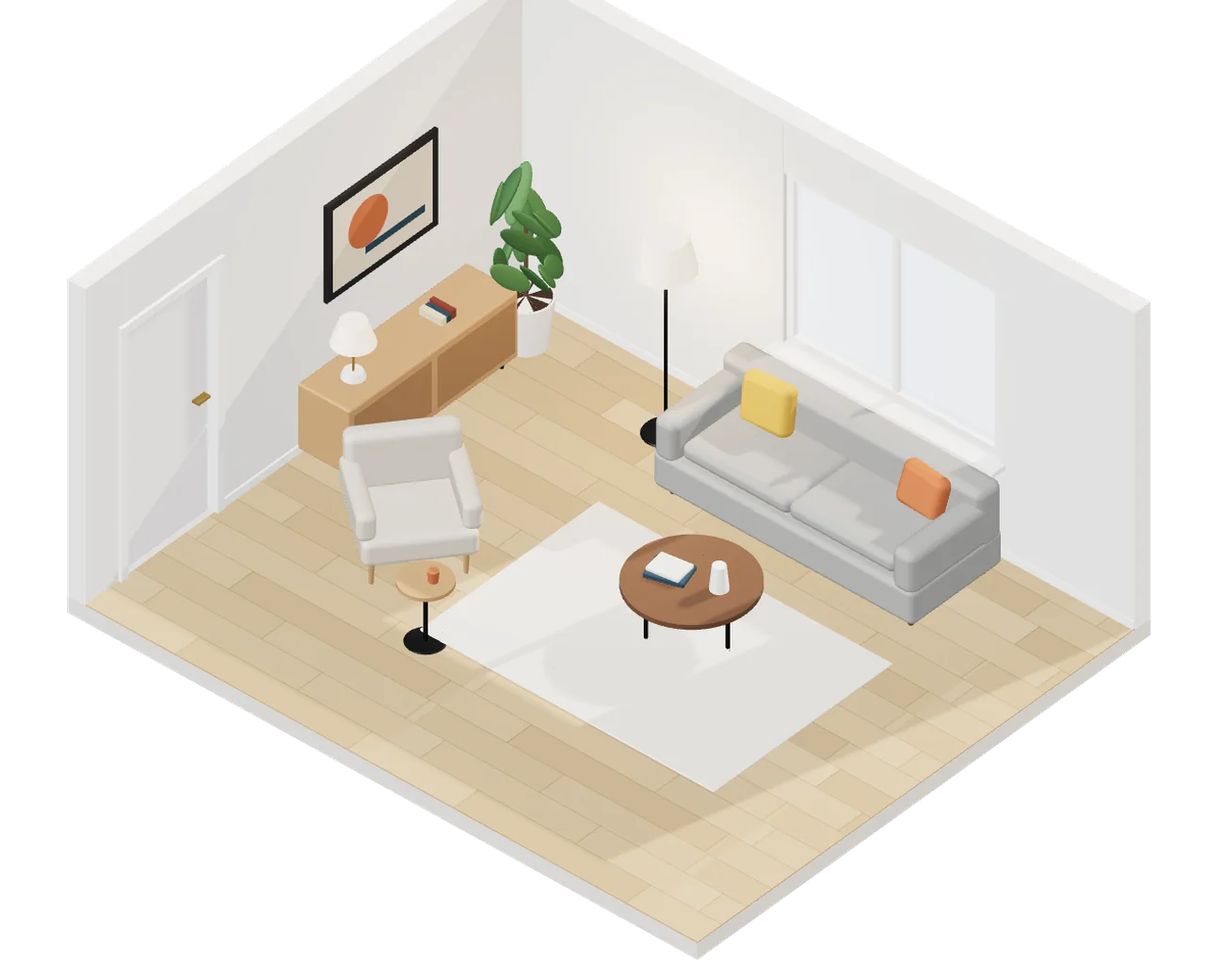
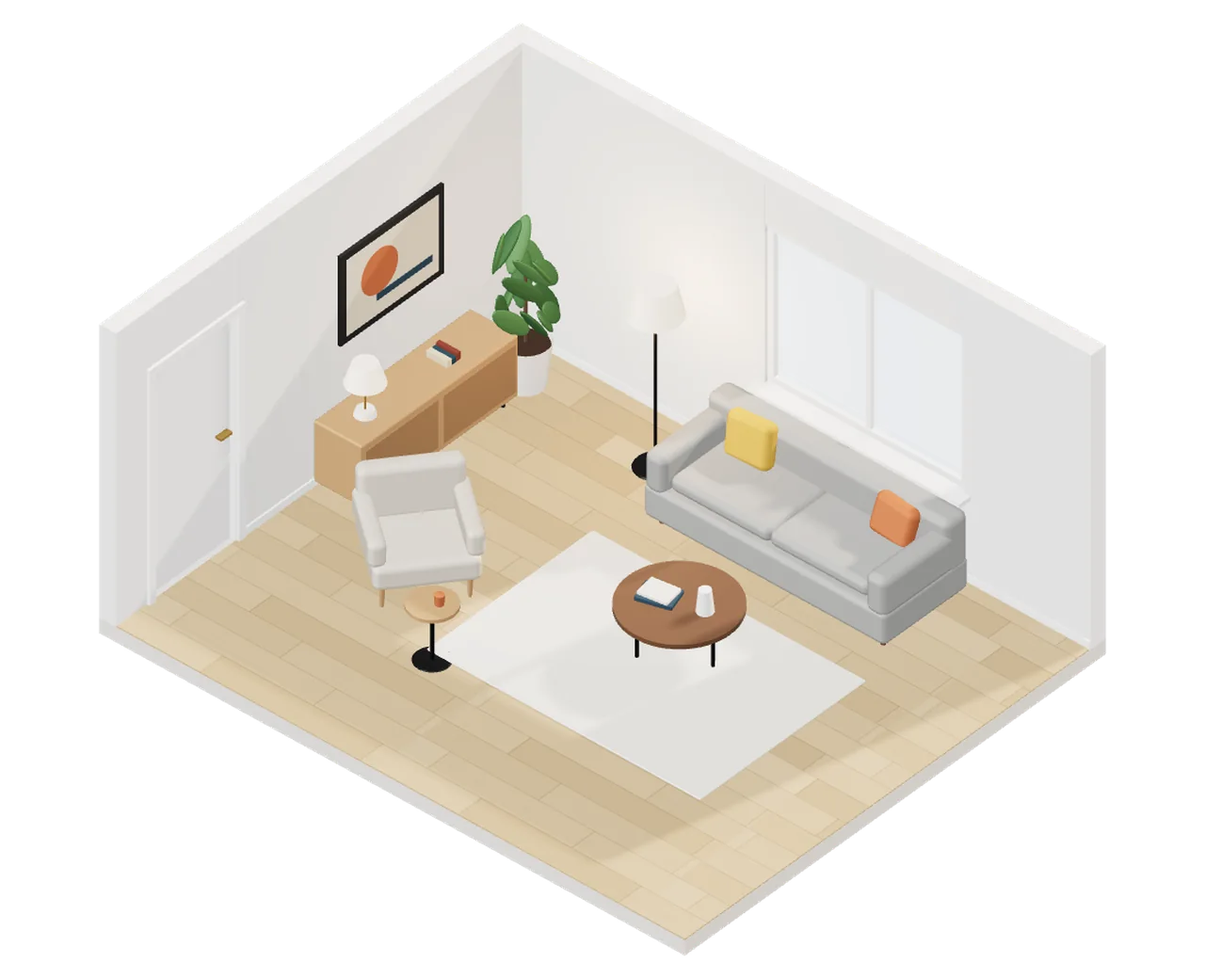
Landing room: fit the frame, no idle loop, no flicker
- The orthographic frame now fits the room's real bounds, checked across
  the whole turning range, so the top is never cut at any size or angle
- No animation at rest: the scene renders only while the user turns it;
  pixel ratio capped at 1.75 (1.5 on phones), 1024 shadow map, lighter
  rounded boxes and leaves
- The plant pot flickered: the soil disc and the pot's top cap shared one
  plane (z-fighting). The pot is open now, soil sits below the rim; the
  picture and sideboard panels got real gaps; tighter camera depth range
- New poster for the new framing; assets r16

Claude-Session: https://claude.ai/code/session_01FUgMJFbgxXyKvZXc7sstb2

diff --git a/apps/web/room3d.js b/apps/web/room3d.js
@@ -1,10 +1,8 @@
 /* Landing hero: a furnished room in real 3D (three.js, vendored), orthographic
    camera from above and slightly to the side. A pre-rendered poster of the same
    scene shows first; WebGL loads after the page and fades in over it. The room
-   renders on demand: drag to turn, a slow sway while on screen, nothing while
-   hidden or with reduced motion. */
+   renders only when the user turns it: no animation loop at rest. */
 const root = document.querySelector('[data-room3d]');
-const reduced = matchMedia('(prefers-reduced-motion: reduce)').matches;
 const posterMode = new URLSearchParams(location.search).has('room-poster');
 
 const start = () => import('./vendor/three-0.170.0.module.min.js').then(THREE => Promise.all([
@@ -21,7 +19,7 @@ function build(THREE, RoundedBoxGeometry, RoomEnvironment) {
   } catch {
     return; // No WebGL: the poster stays.
   }
-  renderer.setPixelRatio(Math.min(window.devicePixelRatio || 1, small ? 1.75 : 2));
+  renderer.setPixelRatio(Math.min(window.devicePixelRatio || 1, small ? 1.5 : 1.75));
   renderer.outputColorSpace = THREE.SRGBColorSpace;
   renderer.toneMapping = THREE.ACESFilmicToneMapping;
   renderer.toneMappingExposure = 1.05;
@@ -92,8 +90,8 @@ function build(THREE, RoundedBoxGeometry, RoomEnvironment) {
     return mesh;
   };
   const box = (w, h, d) => new THREE.BoxGeometry(w, h, d);
-  const rbox = (w, h, d, r = 0.04) => new RoundedBoxGeometry(w, h, d, 3, r);
-  const cyl = (rt, rb, h, seg = 32) => new THREE.CylinderGeometry(rt, rb, h, seg);
+  const rbox = (w, h, d, r = 0.04) => new RoundedBoxGeometry(w, h, d, 2, r);
+  const cyl = (rt, rb, h, seg = 24, open = false) => new THREE.CylinderGeometry(rt, rb, h, seg, 1, open);
 
   // ── Shell: slab, two walls with thickness, window, doorway ──
   const W = 5.4, D = 4.4, H = 2.7, T = 0.16, slab = 0.14;
@@ -170,7 +168,7 @@ function build(THREE, RoundedBoxGeometry, RoomEnvironment) {
   // Sideboard along the left wall with a lamp, books and a picture above.
   const side = new THREE.Group(); side.position.set(x0 + 0.26, 0, -0.75); room.add(side);
   add(rbox(0.46, 0.56, 1.7, 0.02), oak, 0, 0.36, 0, { parent: side });
-  [-0.42, 0.42].forEach(z => add(box(0.005, 0.44, 0.78), std(0x9c7650, 0.6), 0.233, 0.36, z, { parent: side, cast: false }));
+  [-0.42, 0.42].forEach(z => add(box(0.006, 0.44, 0.78), std(0x9c7650, 0.6), 0.236, 0.36, z, { parent: side, cast: false }));
   [[-0.17, -0.75], [0.17, -0.75], [-0.17, 0.75], [0.17, 0.75]].forEach(([x, z]) => add(cyl(0.015, 0.015, 0.08, 10), blackMetal, x, 0.04, z, { parent: side }));
   add(cyl(0.07, 0.09, 0.05, 24), ceramic, 0, 0.665, 0.55, { parent: side });
   add(cyl(0.008, 0.008, 0.32, 8), brass, 0, 0.84, 0.55, { parent: side });
@@ -179,8 +177,8 @@ function build(THREE, RoundedBoxGeometry, RoomEnvironment) {
   const art = new THREE.Group(); art.position.set(x0 + 0.02, 1.55, -0.75); room.add(art);
   add(box(0.03, 0.82, 1.12), std(0x1d1d1d, 0.5), 0, 0, 0, { parent: art });
   add(box(0.005, 0.7, 1.0), std(0xd8cdb8, 0.95), 0.016, 0, 0, { parent: art, cast: false });
-  add(new THREE.CircleGeometry(0.2, 40), std(0xb8673f, 0.9), 0.02, 0.05, 0.15, { parent: art, ry: Math.PI / 2, cast: false });
-  add(box(0.004, 0.06, 0.6), std(0x2f4858, 0.9), 0.02, -0.18, -0.12, { parent: art, cast: false });
+  add(new THREE.CircleGeometry(0.2, 40), std(0xb8673f, 0.9), 0.026, 0.05, 0.15, { parent: art, ry: Math.PI / 2, cast: false });
+  add(box(0.004, 0.06, 0.6), std(0x2f4858, 0.9), 0.026, -0.18, -0.12, { parent: art, cast: false });
 
   // Floor lamp beside the sofa.
   const lamp = new THREE.Group(); lamp.position.set(-1.0, 0, -1.7); room.add(lamp);
@@ -191,9 +189,10 @@ function build(THREE, RoundedBoxGeometry, RoomEnvironment) {
 
   // Plant in the corner.
   const plant = new THREE.Group(); plant.position.set(x0 + 0.38, 0, z0 + 0.4); room.add(plant);
-  add(cyl(0.2, 0.15, 0.42, 32), ceramic, 0, 0.21, 0, { parent: plant });
-  add(cyl(0.18, 0.18, 0.02, 24), std(0x3b2a1e, 1), 0, 0.41, 0, { parent: plant, cast: false });
-  const leafGeo = new THREE.SphereGeometry(0.14, 16, 12);
+  add(cyl(0.2, 0.15, 0.42, 32, true), std(0xf2efe9, 0.35, { side: THREE.DoubleSide }), 0, 0.21, 0, { parent: plant });
+  add(new THREE.CircleGeometry(0.15, 24), ceramic, 0, 0.002, 0, { parent: plant, rx: -Math.PI / 2, cast: false });
+  add(new THREE.CircleGeometry(0.185, 24), std(0x3b2a1e, 1), 0, 0.37, 0, { parent: plant, rx: -Math.PI / 2, cast: false });
+  const leafGeo = new THREE.SphereGeometry(0.14, 12, 8);
   for (let i = 0; i < 16; i++) {
     const a = i * 2.4, r = 0.08 + (i % 4) * 0.06, h = 0.6 + (i % 5) * 0.16;
     const l = add(leafGeo, i % 3 ? leaf : leafDark, Math.cos(a) * r, h, Math.sin(a) * r, { parent: plant, rx: Math.cos(a) * 0.6, rz: Math.sin(a) * 0.6 });
@@ -213,7 +212,7 @@ function build(THREE, RoundedBoxGeometry, RoomEnvironment) {
   sun.position.set(2.2, 5.2, -7.5);
   sun.target.position.set(0.2, 0, 0.6);
   sun.castShadow = true;
-  sun.shadow.mapSize.set(small ? 1024 : 2048, small ? 1024 : 2048);
+  sun.shadow.mapSize.set(1024, 1024);
   Object.assign(sun.shadow.camera, { left: -5, right: 5, top: 5, bottom: -5, near: 1, far: 20 });
   sun.shadow.bias = -0.0004; sun.shadow.normalBias = 0.02; sun.shadow.radius = 6; sun.shadow.blurSamples = 16;
   scene.add(sun, sun.target);
@@ -223,9 +222,9 @@ function build(THREE, RoundedBoxGeometry, RoomEnvironment) {
   scene.add(new THREE.HemisphereLight(0xf4f1ea, 0x8a7a66, 0.6));
 
   // ── Camera: orthographic, from above and to the side ──
-  const camera = new THREE.OrthographicCamera(-1, 1, 1, -1, 0.1, 100);
+  const camera = new THREE.OrthographicCamera(-1, 1, 1, -1, 8, 30);
   const target = new THREE.Vector3(-0.15, 0.95, -0.1);
-  const view = { azimuth: 0.72, elevation: 0.68, base: 0.72 };
+  const view = { azimuth: 0.72, elevation: 0.68 };
   const AZ_MIN = 0.32, AZ_MAX = 1.18;
   const place = () => {
     const r = 18;
@@ -237,13 +236,33 @@ function build(THREE, RoundedBoxGeometry, RoomEnvironment) {
     camera.lookAt(target);
   };
   const render = () => { place(); renderer.render(scene, camera); };
+  // Fit the frame to the room's real bounds, checked at every angle the user
+  // can turn to, so nothing is cut at any size or rotation.
+  const bounds = new THREE.Box3().setFromObject(room);
+  const corners = [];
+  for (const x of [bounds.min.x, bounds.max.x]) for (const y of [bounds.min.y, bounds.max.y]) for (const z of [bounds.min.z, bounds.max.z]) corners.push(new THREE.Vector3(x, y, z));
+  const extent = { left: Infinity, right: -Infinity, bottom: Infinity, top: -Infinity };
+  const resting = view.azimuth;
+  for (let i = 0; i <= 8; i++) {
+    view.azimuth = AZ_MIN + (AZ_MAX - AZ_MIN) * i / 8;
+    place(); camera.updateMatrixWorld();
+    for (const corner of corners) {
+      const p = corner.clone().applyMatrix4(camera.matrixWorldInverse);
+      extent.left = Math.min(extent.left, p.x); extent.right = Math.max(extent.right, p.x);
+      extent.bottom = Math.min(extent.bottom, p.y); extent.top = Math.max(extent.top, p.y);
+    }
+  }
+  view.azimuth = resting;
   const resize = () => {
     const { width, height } = canvas.getBoundingClientRect();
     if (!width || !height) return;
     renderer.setSize(width, height, false);
+    const margin = 1.04;
+    const cx = (extent.left + extent.right) / 2, cy = (extent.bottom + extent.top) / 2;
+    let halfW = (extent.right - extent.left) / 2 * margin, halfH = (extent.top - extent.bottom) / 2 * margin;
     const aspect = width / height;
-    const half = Math.max(3.25, 3.9 / aspect);
-    Object.assign(camera, { left: -half * aspect, right: half * aspect, top: half, bottom: -half });
+    if (halfW / halfH > aspect) halfH = halfW / aspect; else halfW = halfH * aspect;
+    Object.assign(camera, { left: cx - halfW, right: cx + halfW, bottom: cy - halfH, top: cy + halfH });
     camera.updateProjectionMatrix();
     render();
   };
@@ -251,7 +270,7 @@ function build(THREE, RoundedBoxGeometry, RoomEnvironment) {
   const request = () => { if (!pending) pending = requestAnimationFrame(() => { pending = 0; render(); }); };
 
   // ── Interaction: horizontal drag turns the room (vertical swipes still scroll) ──
-  let drag = null, visible = true, idleFrom = performance.now(), loop = 0;
+  let drag = null;
   canvas.addEventListener('pointerdown', event => {
     drag = { x: event.clientX }; root.classList.add('is-turning');
     canvas.setPointerCapture?.(event.pointerId);
@@ -262,42 +281,23 @@ function build(THREE, RoundedBoxGeometry, RoomEnvironment) {
     drag.x = event.clientX;
     request();
   });
-  const release = () => { if (!drag) return; drag = null; root.classList.remove('is-turning'); idleFrom = performance.now(); view.base = view.azimuth; };
+  const release = () => { if (!drag) return; drag = null; root.classList.remove('is-turning'); };
   canvas.addEventListener('pointerup', release);
   canvas.addEventListener('pointercancel', release);
   canvas.addEventListener('keydown', event => {
     const step = { ArrowLeft: 0.08, ArrowRight: -0.08 }[event.key];
     if (!step) return;
     event.preventDefault();
-    view.azimuth = view.base = Math.min(AZ_MAX, Math.max(AZ_MIN, view.azimuth + step));
+    view.azimuth = Math.min(AZ_MAX, Math.max(AZ_MIN, view.azimuth + step));
     request();
   });
 
-  // A slow sway around the resting angle while the hero is visible.
-  const sway = now => {
-    loop = 0;
-    if (!visible || document.hidden) return;
-    if (!drag && now - idleFrom > 1500) {
-      const t = (now - idleFrom - 1500) / 1000;
-      const amplitude = Math.min(1, t / 3) * 0.09;
-      view.azimuth = Math.min(AZ_MAX, Math.max(AZ_MIN, view.base + Math.sin(t * 0.35) * amplitude));
-      render();
-    }
-    loop = requestAnimationFrame(sway);
-  };
-  const play = () => { if (!loop && !reduced && !posterMode) loop = requestAnimationFrame(sway); };
-  new IntersectionObserver(entries => {
-    visible = entries.some(entry => entry.isIntersecting);
-    if (visible) play(); else { cancelAnimationFrame(loop); loop = 0; }
-  }, { threshold: 0.05 }).observe(canvas);
-  document.addEventListener('visibilitychange', () => { if (!document.hidden) play(); });
   new ResizeObserver(resize).observe(canvas);
 
   renderer.shadowMap.needsUpdate = true;
   resize();
   render();
   root.classList.add('is-ready');
-  play();
   if (posterMode) window.roomPoster = () => { render(); return canvas.toDataURL('image/png'); };
 }
 

diff --git a/apps/web/app.html b/apps/web/app.html
@@ -6,24 +6,24 @@
   <title>Кабинет · Сметра</title>
   <meta name="theme-color" content="#000000">
   <link rel="manifest" href="/manifest.webmanifest">
-  <script src="/pwa.js?v=20261026-r15" defer></script>
-  <script src="/theme-init.js?v=20261026-r15"></script>
+  <script src="/pwa.js?v=20261026-r16" defer></script>
+  <script src="/theme-init.js?v=20261026-r16"></script>
   <link rel="preload" href="/assets/fonts/onest-variable.woff2" as="font" type="font/woff2" crossorigin>
-  <link rel="stylesheet" href="/ui/tokens.css?v=20261026-r15">
-  <link rel="stylesheet" href="/ui/base.css?v=20261026-r15">
-  <link rel="stylesheet" href="/ui/components.css?v=20261026-r15">
-  <link rel="stylesheet" href="/ui/shell.css?v=20261026-r15">
-  <link rel="stylesheet" href="/ui/workspace.css?v=20261026-r15">
-  <link rel="stylesheet" href="/ui/editor.css?v=20261026-r15">
-  <link rel="stylesheet" href="/ui/assistant.css?v=20261026-r15">
-  <link rel="stylesheet" href="/ui/modules.css?v=20261026-r15">
-  <link rel="stylesheet" href="/ui/tools.css?v=20261026-r15">
-  <script src="/ui/native.js?v=20261026-r15"></script>
-  <script src="/ui/icons.js?v=20261026-r15"></script>
-  <script src="/ui/dialog.js?v=20261026-r15"></script>
-  <script src="/ui/chat-kit.js?v=20261026-r15"></script>
-  <script src="/ui/context-menu.js?v=20261026-r15" defer></script>
-  <script src="/ui/plans.js?v=20261026-r15"></script>
+  <link rel="stylesheet" href="/ui/tokens.css?v=20261026-r16">
+  <link rel="stylesheet" href="/ui/base.css?v=20261026-r16">
+  <link rel="stylesheet" href="/ui/components.css?v=20261026-r16">
+  <link rel="stylesheet" href="/ui/shell.css?v=20261026-r16">
+  <link rel="stylesheet" href="/ui/workspace.css?v=20261026-r16">
+  <link rel="stylesheet" href="/ui/editor.css?v=20261026-r16">
+  <link rel="stylesheet" href="/ui/assistant.css?v=20261026-r16">
+  <link rel="stylesheet" href="/ui/modules.css?v=20261026-r16">
+  <link rel="stylesheet" href="/ui/tools.css?v=20261026-r16">
+  <script src="/ui/native.js?v=20261026-r16"></script>
+  <script src="/ui/icons.js?v=20261026-r16"></script>
+  <script src="/ui/dialog.js?v=20261026-r16"></script>
+  <script src="/ui/chat-kit.js?v=20261026-r16"></script>
+  <script src="/ui/context-menu.js?v=20261026-r16" defer></script>
+  <script src="/ui/plans.js?v=20261026-r16"></script>
 </head>
 <body class="workspace-page smetra-app-booting" data-app-state="boot">
   <div id="app-startup" class="app-startup" role="status" aria-live="polite">
@@ -173,19 +173,19 @@
     </nav>
   </div>
   <div id="toast" class="toast hidden" role="status"></div>
-  <script src="/features.js?v=20261026-r15" defer></script>
-  <script src="/select-menu.js?v=20261026-r15" defer></script>
-  <script src="/app.js?v=20261026-r15" defer></script>
-  <script src="/workspace.js?v=20261026-r15" defer></script>
-  <script src="/field-flows.js?v=20261026-r15" defer></script>
-  <script src="/black.js?v=20261026-r15" defer></script>
-  <script src="/auth-email.js?v=20261026-r15" defer></script>
-  <script src="/file-preview.js?v=20261026-r15" defer></script>
-  <script src="/file-editor.js?v=20261026-r15" defer></script>
-  <script src="/product-ui.js?v=20261026-r15" defer></script>
-<script src="/support-chat.js?v=20261026-r15" defer></script>
-<script src="/communication-center.js?v=20261026-r15" defer></script>
-<script src="/ui/tabbar.js?v=20261026-r15" defer></script>
-<script src="/ui/ux.js?v=20261026-r15" defer></script>
+  <script src="/features.js?v=20261026-r16" defer></script>
+  <script src="/select-menu.js?v=20261026-r16" defer></script>
+  <script src="/app.js?v=20261026-r16" defer></script>
+  <script src="/workspace.js?v=20261026-r16" defer></script>
+  <script src="/field-flows.js?v=20261026-r16" defer></script>
+  <script src="/black.js?v=20261026-r16" defer></script>
+  <script src="/auth-email.js?v=20261026-r16" defer></script>
+  <script src="/file-preview.js?v=20261026-r16" defer></script>
+  <script src="/file-editor.js?v=20261026-r16" defer></script>
+  <script src="/product-ui.js?v=20261026-r16" defer></script>
+<script src="/support-chat.js?v=20261026-r16" defer></script>
+<script src="/communication-center.js?v=20261026-r16" defer></script>
+<script src="/ui/tabbar.js?v=20261026-r16" defer></script>
+<script src="/ui/ux.js?v=20261026-r16" defer></script>
 </body>
 </html>

diff --git a/apps/web/features.js b/apps/web/features.js
@@ -3,20 +3,20 @@
   const pending=new Map();
 
   const features={
-    markdown:{ready:()=>!!window.SmetraMarkdown,files:['/vendor/markdown-it-15.0.2.min.js?v=20261026-r15','/chat-markdown.js?v=20261026-r15']},
-    quoteVisuals:{ready:()=>!!window.SmetraQuoteVisuals&&!!window.SmetraQuoteLayout,files:['/quote-layout-renderer.js?v=20261026-r15','/quote-visual-core.js?v=20261026-r15']},
-    assistant:{ready:()=>!!window.SmetraAssistant&&!!window.SmetraKnowledgePanel,deps:['markdown','quoteVisuals'],files:['/assistant-chat.js?v=20261026-r15','/ai-workspace.js?v=20261026-r15']},
-    profile:{ready:()=>!!window.SmetraProfile,files:['/profile-ui.js?v=20261026-r15']},
-    dataExport:{ready:()=>!!window.SmetraDataExport,files:['/data-export.js?v=20261026-r15']},
-    construction:{ready:()=>!!window.SmetraConstruction,deps:['quoteVisuals'],files:['/construction.js?v=20261026-r15']},
-    calculators:{ready:()=>!!window.SmetraCalculators,files:['/calculators.js?v=20261026-r15']},
-    admin:{ready:()=>!!window.SmetraAdmin,files:['/admin.js?v=20261026-r15']},
-    growth:{ready:()=>!!window.SmetraGrowth,files:['/ecosystem-billing.js?v=20261026-r15','/growth.js?v=20261026-r15']},
-    quoteReview:{ready:()=>!!window.SmetraQuoteReview,files:['/quote-review.js?v=20261026-r15']},
-    estimateAudit:{ready:()=>!!window.SmetraEstimateAudit,files:['/estimate-audit.js?v=20261026-r15']},
-    quoteEditor:{ready:()=>!!window.SmetraQuoteEditorState&&!!window.SmetraEstimateAudit,deps:['estimateAudit'],files:['/quote-editor-state.js?v=20261026-r15']},
-    objectChats:{ready:()=>!!window.SmetraObjectChats,files:['/object-chats.js?v=20261026-r15']},
-    premiumTools:{ready:()=>!!window.SmetraPremiumTools,files:['/premium-tools.js?v=20261026-r15']},
+    markdown:{ready:()=>!!window.SmetraMarkdown,files:['/vendor/markdown-it-15.0.2.min.js?v=20261026-r16','/chat-markdown.js?v=20261026-r16']},
+    quoteVisuals:{ready:()=>!!window.SmetraQuoteVisuals&&!!window.SmetraQuoteLayout,files:['/quote-layout-renderer.js?v=20261026-r16','/quote-visual-core.js?v=20261026-r16']},
+    assistant:{ready:()=>!!window.SmetraAssistant&&!!window.SmetraKnowledgePanel,deps:['markdown','quoteVisuals'],files:['/assistant-chat.js?v=20261026-r16','/ai-workspace.js?v=20261026-r16']},
+    profile:{ready:()=>!!window.SmetraProfile,files:['/profile-ui.js?v=20261026-r16']},
+    dataExport:{ready:()=>!!window.SmetraDataExport,files:['/data-export.js?v=20261026-r16']},
+    construction:{ready:()=>!!window.SmetraConstruction,deps:['quoteVisuals'],files:['/construction.js?v=20261026-r16']},
+    calculators:{ready:()=>!!window.SmetraCalculators,files:['/calculators.js?v=20261026-r16']},
+    admin:{ready:()=>!!window.SmetraAdmin,files:['/admin.js?v=20261026-r16']},
+    growth:{ready:()=>!!window.SmetraGrowth,files:['/ecosystem-billing.js?v=20261026-r16','/growth.js?v=20261026-r16']},
+    quoteReview:{ready:()=>!!window.SmetraQuoteReview,files:['/quote-review.js?v=20261026-r16']},
+    estimateAudit:{ready:()=>!!window.SmetraEstimateAudit,files:['/estimate-audit.js?v=20261026-r16']},
+    quoteEditor:{ready:()=>!!window.SmetraQuoteEditorState&&!!window.SmetraEstimateAudit,deps:['estimateAudit'],files:['/quote-editor-state.js?v=20261026-r16']},
+    objectChats:{ready:()=>!!window.SmetraObjectChats,files:['/object-chats.js?v=20261026-r16']},
+    premiumTools:{ready:()=>!!window.SmetraPremiumTools,files:['/premium-tools.js?v=20261026-r16']},
   };
   const load=source=>{
     if(pending.has(source))return pending.get(source);

diff --git a/apps/web/index.html b/apps/web/index.html
@@ -9,13 +9,13 @@
 <meta name="description" content="Сметы с позициями и итогами, согласование с клиентом по ссылке, этапы работ и поступления. ИИ-ассистент собирает черновик по описанию или фото. 10 смет бесплатно.">
 <link rel="icon" href="/favicon.ico">
 <link rel="preload" href="/assets/fonts/onest-variable.woff2" as="font" type="font/woff2" crossorigin>
-<link rel="stylesheet" href="/ui/tokens.css?v=20261026-r15">
-<link rel="stylesheet" href="/ui/base.css?v=20261026-r15">
-<link rel="stylesheet" href="/ui/components.css?v=20261026-r15">
-<link rel="stylesheet" href="/ui/site.css?v=20261026-r15">
-<script src="/ui/plans.js?v=20261026-r15" defer></script>
-<script src="/landing.js?v=20261026-r15" defer></script>
-<script type="module" src="/room3d.js?v=20261026-r15"></script>
+<link rel="stylesheet" href="/ui/tokens.css?v=20261026-r16">
+<link rel="stylesheet" href="/ui/base.css?v=20261026-r16">
+<link rel="stylesheet" href="/ui/components.css?v=20261026-r16">
+<link rel="stylesheet" href="/ui/site.css?v=20261026-r16">
+<script src="/ui/plans.js?v=20261026-r16" defer></script>
+<script src="/landing.js?v=20261026-r16" defer></script>
+<script type="module" src="/room3d.js?v=20261026-r16"></script>
 </head>
 <body class="site-page landing-page dark">
 <a class="skip-link" href="#landing">К содержимому</a>
@@ -50,7 +50,7 @@
     </div>
 
     <div class="hero-visual hero-room reveal" data-room3d>
-      <img class="hero-room-poster" src="/assets/landing/room.webp" width="1280" height="1041" alt="Комната в 3D: белые стены, окно, диван, кресло и журнальный столик" fetchpriority="high" decoding="async">
+      <img class="hero-room-poster" src="/assets/landing/room.webp" width="1280" height="1040" alt="Комната в 3D: белые стены, окно, диван, кресло и журнальный столик" fetchpriority="high" decoding="async">
       <canvas class="hero-room-canvas" tabindex="0" role="img" aria-label="Трёхмерная комната. Перетащите или нажмите стрелки, чтобы повернуть."></canvas>
     </div>
   </section>

diff --git a/apps/web/terms.html b/apps/web/terms.html
@@ -1,5 +1,5 @@
 <!doctype html>
-<html lang="ru" data-theme="dark"><head><meta charset="utf-8"><meta name="viewport" content="width=device-width,initial-scale=1"><meta name="theme-color" content="#000000"><title>Условия использования и оплаты · Сметра</title><link rel="icon" href="/favicon.ico"><link rel="stylesheet" href="/ui/tokens.css?v=20261026-r15"><link rel="stylesheet" href="/ui/base.css?v=20261026-r15"><link rel="stylesheet" href="/ui/components.css?v=20261026-r15"><link rel="stylesheet" href="/ui/site.css?v=20261026-r15"></head>
+<html lang="ru" data-theme="dark"><head><meta charset="utf-8"><meta name="viewport" content="width=device-width,initial-scale=1"><meta name="theme-color" content="#000000"><title>Условия использования и оплаты · Сметра</title><link rel="icon" href="/favicon.ico"><link rel="stylesheet" href="/ui/tokens.css?v=20261026-r16"><link rel="stylesheet" href="/ui/base.css?v=20261026-r16"><link rel="stylesheet" href="/ui/components.css?v=20261026-r16"><link rel="stylesheet" href="/ui/site.css?v=20261026-r16"></head>
 <body class="site-page dark"><header class="site-nav is-scrolled"><div class="site-nav-inner"><a class="brand" href="/" aria-label="Сметра — на главную">сметра<span class="brand-mark">.</span></a><div class="site-nav-actions"><a class="btn small ghost" href="/">Главная</a><a class="btn small primary" href="/app">Кабинет</a></div></div></header>
 <main class="container doc"><span class="overline">Сметра / документы</span><h1>Условия использования и оплаты</h1><p>Редакция от 29 сентября 2026 года.</p>
 <h2>Кто предоставляет сервис</h2><p>МУРАВЬЕВ КОНСТАНТИН АЛЕКСЕЕВИЧ, плательщик налога на профессиональный доход (самозанятый), ИНН 713304603876. Контакт для вопросов по сервису, оплате и возвратам: <a href="mailto:support@smetra.online">support@smetra.online</a>.</p>

diff --git a/apps/web/contacts.html b/apps/web/contacts.html
@@ -1,5 +1,5 @@
 <!doctype html>
-<html lang="ru" data-theme="dark"><head><meta charset="utf-8"><meta name="viewport" content="width=device-width,initial-scale=1"><meta name="theme-color" content="#000000"><title>Контакты и реквизиты · Сметра</title><link rel="icon" href="/favicon.ico"><link rel="stylesheet" href="/ui/tokens.css?v=20261026-r15"><link rel="stylesheet" href="/ui/base.css?v=20261026-r15"><link rel="stylesheet" href="/ui/components.css?v=20261026-r15"><link rel="stylesheet" href="/ui/site.css?v=20261026-r15"></head>
+<html lang="ru" data-theme="dark"><head><meta charset="utf-8"><meta name="viewport" content="width=device-width,initial-scale=1"><meta name="theme-color" content="#000000"><title>Контакты и реквизиты · Сметра</title><link rel="icon" href="/favicon.ico"><link rel="stylesheet" href="/ui/tokens.css?v=20261026-r16"><link rel="stylesheet" href="/ui/base.css?v=20261026-r16"><link rel="stylesheet" href="/ui/components.css?v=20261026-r16"><link rel="stylesheet" href="/ui/site.css?v=20261026-r16"></head>
 <body class="site-page dark"><header class="site-nav is-scrolled"><div class="site-nav-inner"><a class="brand" href="/" aria-label="Сметра — на главную">сметра<span class="brand-mark">.</span></a><div class="site-nav-actions"><a class="btn small ghost" href="/">Главная</a><a class="btn small primary" href="/app">Кабинет</a></div></div></header>
 <main class="container doc"><span class="overline">Информация о сервисе</span><h1>Контакты и реквизиты</h1><p>«Сметра» — онлайн-сервис для создания и согласования смет. Платный тариф предоставляет доступ к функциям сервиса на выбранный срок.</p>
 <h2>Исполнитель</h2><p>МУРАВЬЕВ КОНСТАНТИН АЛЕКСЕЕВИЧ<br>Плательщик налога на профессиональный доход (самозанятый)<br>ИНН 713304603876</p>

diff --git a/apps/web/privacy.html b/apps/web/privacy.html
@@ -1,5 +1,5 @@
 <!doctype html>
-<html lang="ru" data-theme="dark"><head><meta charset="utf-8"><meta name="viewport" content="width=device-width,initial-scale=1"><meta name="theme-color" content="#000000"><title>Обработка данных · Сметра</title><link rel="icon" href="/favicon.ico"><link rel="stylesheet" href="/ui/tokens.css?v=20261026-r15"><link rel="stylesheet" href="/ui/base.css?v=20261026-r15"><link rel="stylesheet" href="/ui/components.css?v=20261026-r15"><link rel="stylesheet" href="/ui/site.css?v=20261026-r15"></head>
+<html lang="ru" data-theme="dark"><head><meta charset="utf-8"><meta name="viewport" content="width=device-width,initial-scale=1"><meta name="theme-color" content="#000000"><title>Обработка данных · Сметра</title><link rel="icon" href="/favicon.ico"><link rel="stylesheet" href="/ui/tokens.css?v=20261026-r16"><link rel="stylesheet" href="/ui/base.css?v=20261026-r16"><link rel="stylesheet" href="/ui/components.css?v=20261026-r16"><link rel="stylesheet" href="/ui/site.css?v=20261026-r16"></head>
 <body class="site-page dark"><header class="site-nav is-scrolled"><div class="site-nav-inner"><a class="brand" href="/" aria-label="Сметра — на главную">сметра<span class="brand-mark">.</span></a><div class="site-nav-actions"><a class="btn small ghost" href="/">Главная</a><a class="btn small primary" href="/app">Кабинет</a></div></div></header>
 <main class="container doc"><span class="overline">Сметра / документы</span><h1>Обработка персональных данных</h1><p>Редакция от 22 октября 2026 года.</p>
 <h2>Оператор и контакт</h2><p>МУРАВЬЕВ КОНСТАНТИН АЛЕКСЕЕВИЧ, ИНН 713304603876, плательщик налога на профессиональный доход. По вопросам обработки персональных данных: <a href="mailto:support@smetra.online">support@smetra.online</a>.</p>

diff --git a/apps/web/disclaimer.html b/apps/web/disclaimer.html
@@ -4,7 +4,7 @@
   <meta charset="utf-8">
   <meta name="viewport" content="width=device-width,initial-scale=1">
   <meta name="theme-color" content="#000000">
-  <title>Отказ от ответственности (As Is) · Сметра</title><link rel="icon" href="/favicon.ico"><link rel="stylesheet" href="/ui/tokens.css?v=20261026-r15"><link rel="stylesheet" href="/ui/base.css?v=20261026-r15"><link rel="stylesheet" href="/ui/components.css?v=20261026-r15"><link rel="stylesheet" href="/ui/site.css?v=20261026-r15">
+  <title>Отказ от ответственности (As Is) · Сметра</title><link rel="icon" href="/favicon.ico"><link rel="stylesheet" href="/ui/tokens.css?v=20261026-r16"><link rel="stylesheet" href="/ui/base.css?v=20261026-r16"><link rel="stylesheet" href="/ui/components.css?v=20261026-r16"><link rel="stylesheet" href="/ui/site.css?v=20261026-r16">
 </head>
 <body class="site-page dark"><header class="site-nav is-scrolled"><div class="site-nav-inner"><a class="brand" href="/" aria-label="Сметра — на главную">сметра<span class="brand-mark">.</span></a><div class="site-nav-actions"><a class="btn small ghost" href="/">Главная</a><a class="btn small primary" href="/app">Кабинет</a></div></div></header>
   <main class="container doc">

diff --git a/apps/web/change.html b/apps/web/change.html
@@ -7,11 +7,11 @@
   <meta name="robots" content="noindex,nofollow">
   <title>Дополнительные работы — сметра.</title>
   <link rel="icon" href="/favicon.ico">
-  <link rel="stylesheet" href="/ui/tokens.css?v=20261026-r15">
-  <link rel="stylesheet" href="/ui/base.css?v=20261026-r15">
-  <link rel="stylesheet" href="/ui/components.css?v=20261026-r15">
-  <link rel="stylesheet" href="/change.css?v=20261026-r15">
-  <script src="/change.js?v=20261026-r15" defer></script>
+  <link rel="stylesheet" href="/ui/tokens.css?v=20261026-r16">
+  <link rel="stylesheet" href="/ui/base.css?v=20261026-r16">
+  <link rel="stylesheet" href="/ui/components.css?v=20261026-r16">
+  <link rel="stylesheet" href="/change.css?v=20261026-r16">
+  <script src="/change.js?v=20261026-r16" defer></script>
 </head>
 <body class="change-page">
   <header><a class="brand" href="/">сметра<span class="brand-mark">.</span></a><span>СОГЛАСОВАНИЕ РАБОТ</span></header>

diff --git a/apps/web/admin.html b/apps/web/admin.html
@@ -1,1 +1,1 @@
-<!doctype html><html lang="ru" data-theme="dark"><head><meta charset="utf-8"><meta name="viewport" content="width=device-width,initial-scale=1"><meta http-equiv="refresh" content="0;url=/app#admin"><title>Администратор · Сметра</title><link rel="stylesheet" href="/ui/tokens.css?v=20261026-r15"><link rel="stylesheet" href="/ui/base.css?v=20261026-r15"></head><body><p class="note"><a href="/app#admin">Перейти в панель</a></p></body></html>
+<!doctype html><html lang="ru" data-theme="dark"><head><meta charset="utf-8"><meta name="viewport" content="width=device-width,initial-scale=1"><meta http-equiv="refresh" content="0;url=/app#admin"><title>Администратор · Сметра</title><link rel="stylesheet" href="/ui/tokens.css?v=20261026-r16"><link rel="stylesheet" href="/ui/base.css?v=20261026-r16"></head><body><p class="note"><a href="/app#admin">Перейти в панель</a></p></body></html>

diff --git a/apps/web/landing.js b/apps/web/landing.js
@@ -42,7 +42,7 @@
       script.onload = resolve; script.onerror = () => reject(Error('Не удалось загрузить страницу'));
       document.head.append(script);
     });
-    Promise.all(['/ui/icons.js?v=20261026-r15', '/app.js?v=20261026-r15', '/workspace.js?v=20261026-r15'].map(load))
+    Promise.all(['/ui/icons.js?v=20261026-r16', '/app.js?v=20261026-r16', '/workspace.js?v=20261026-r16'].map(load))
       .then(() => { root.dataset.theme = 'light'; document.body.classList.remove('dark'); })
       .then(() => params.get('intake') ? window.Workspace.intakePage(params.get('intake')) : window.Workspace.publicPage(params.get('quote')))
       .catch(error => {
